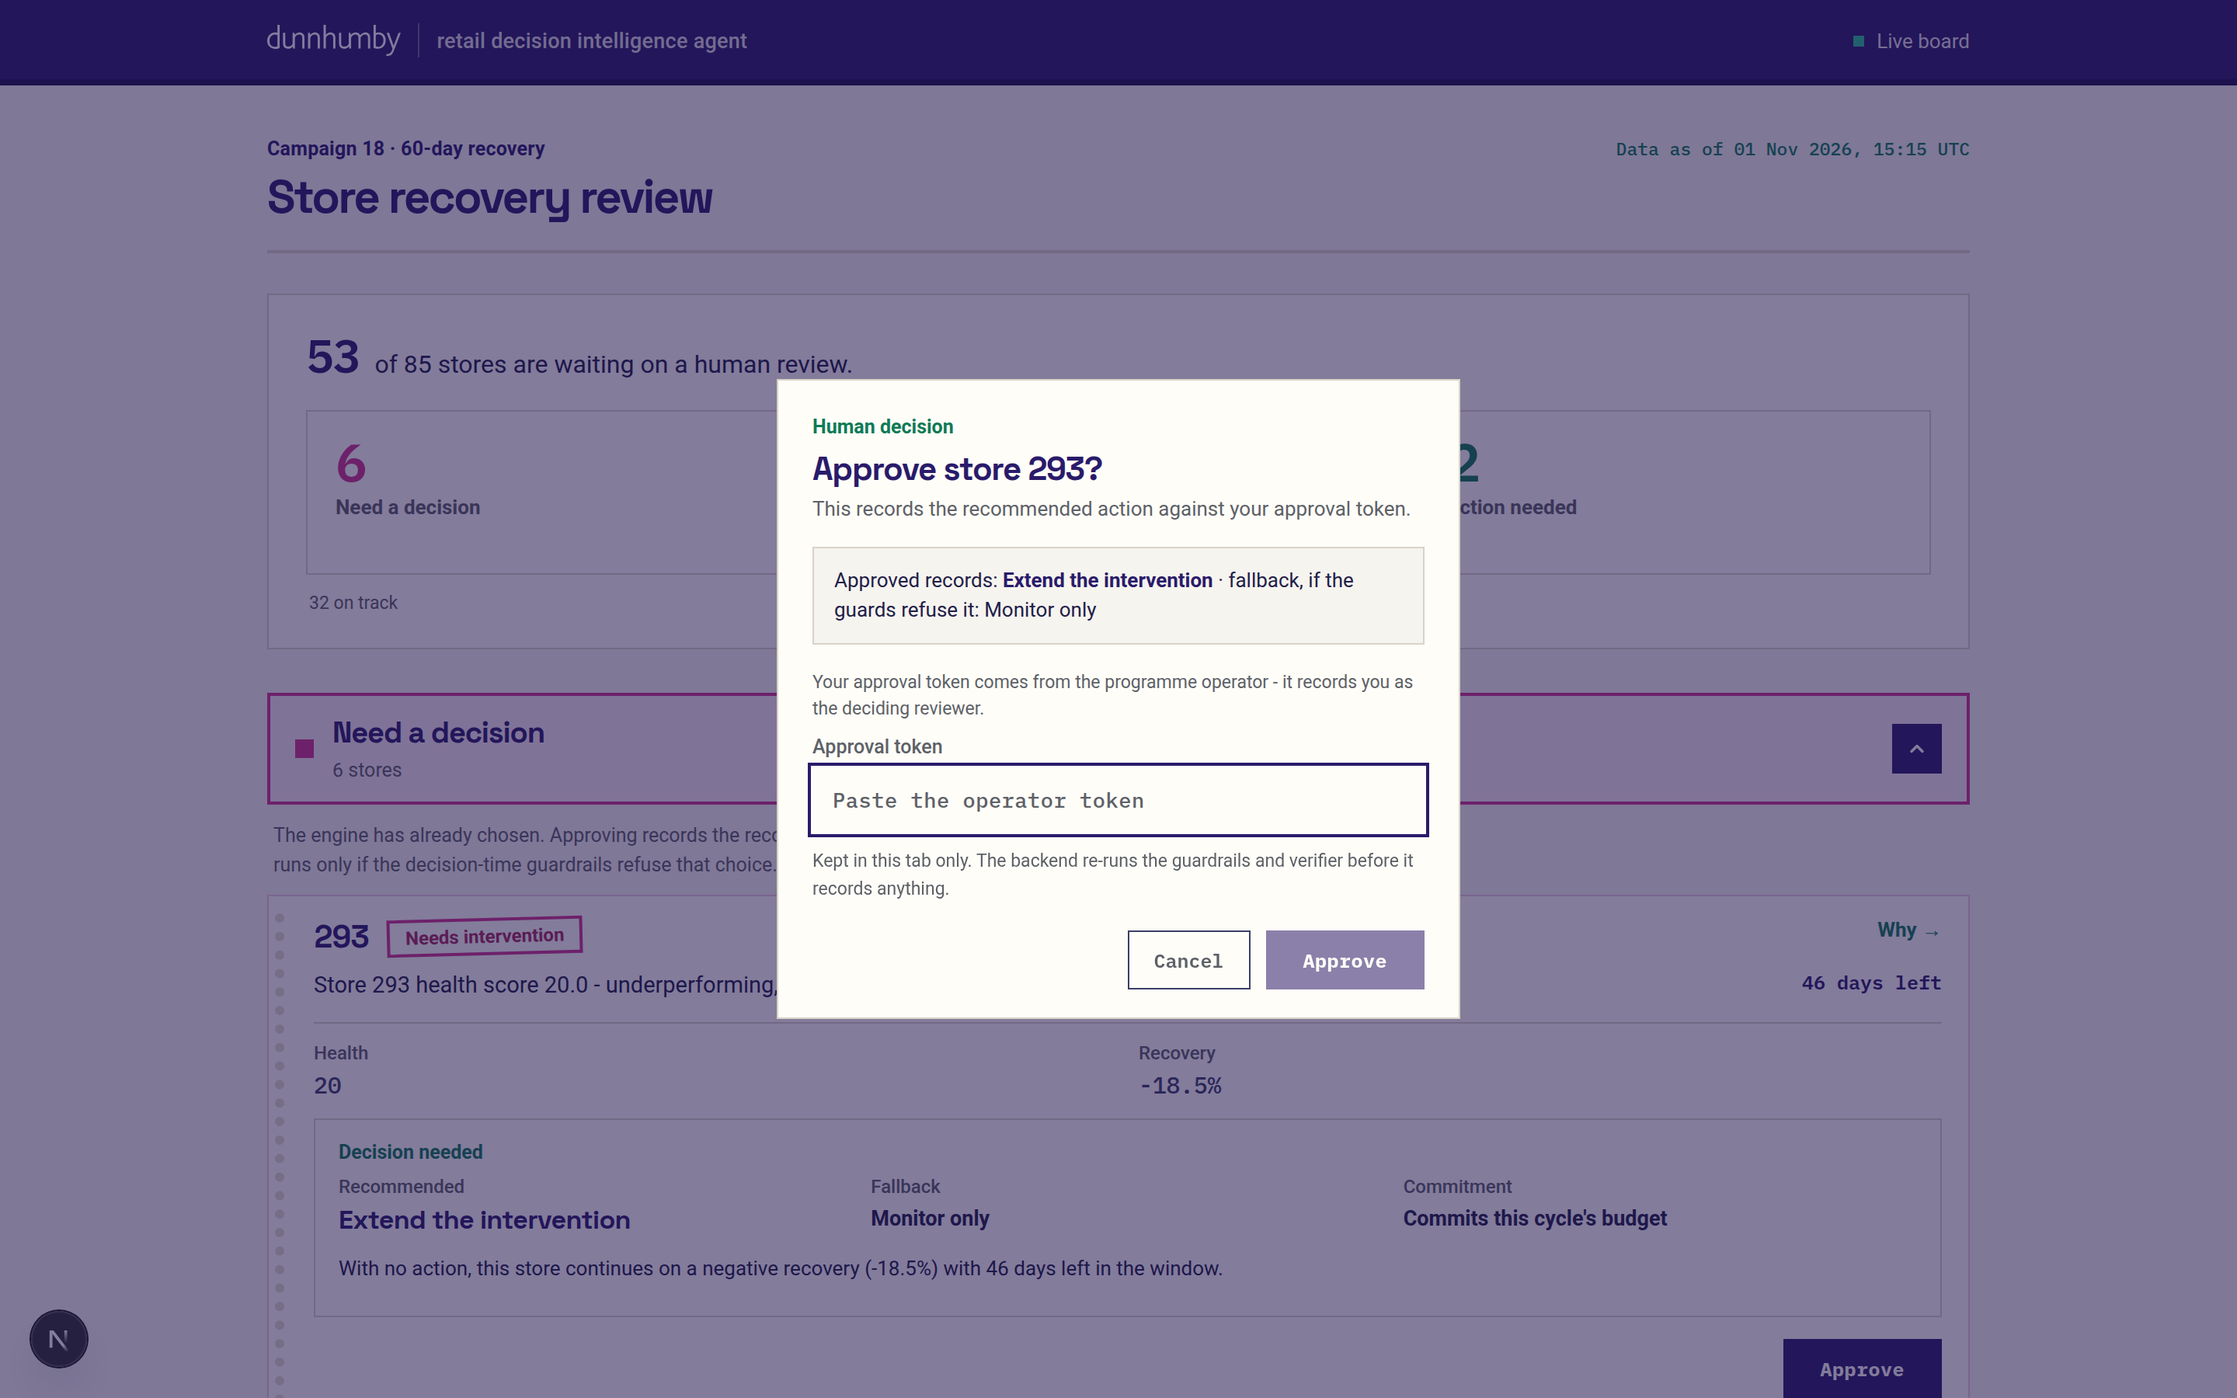
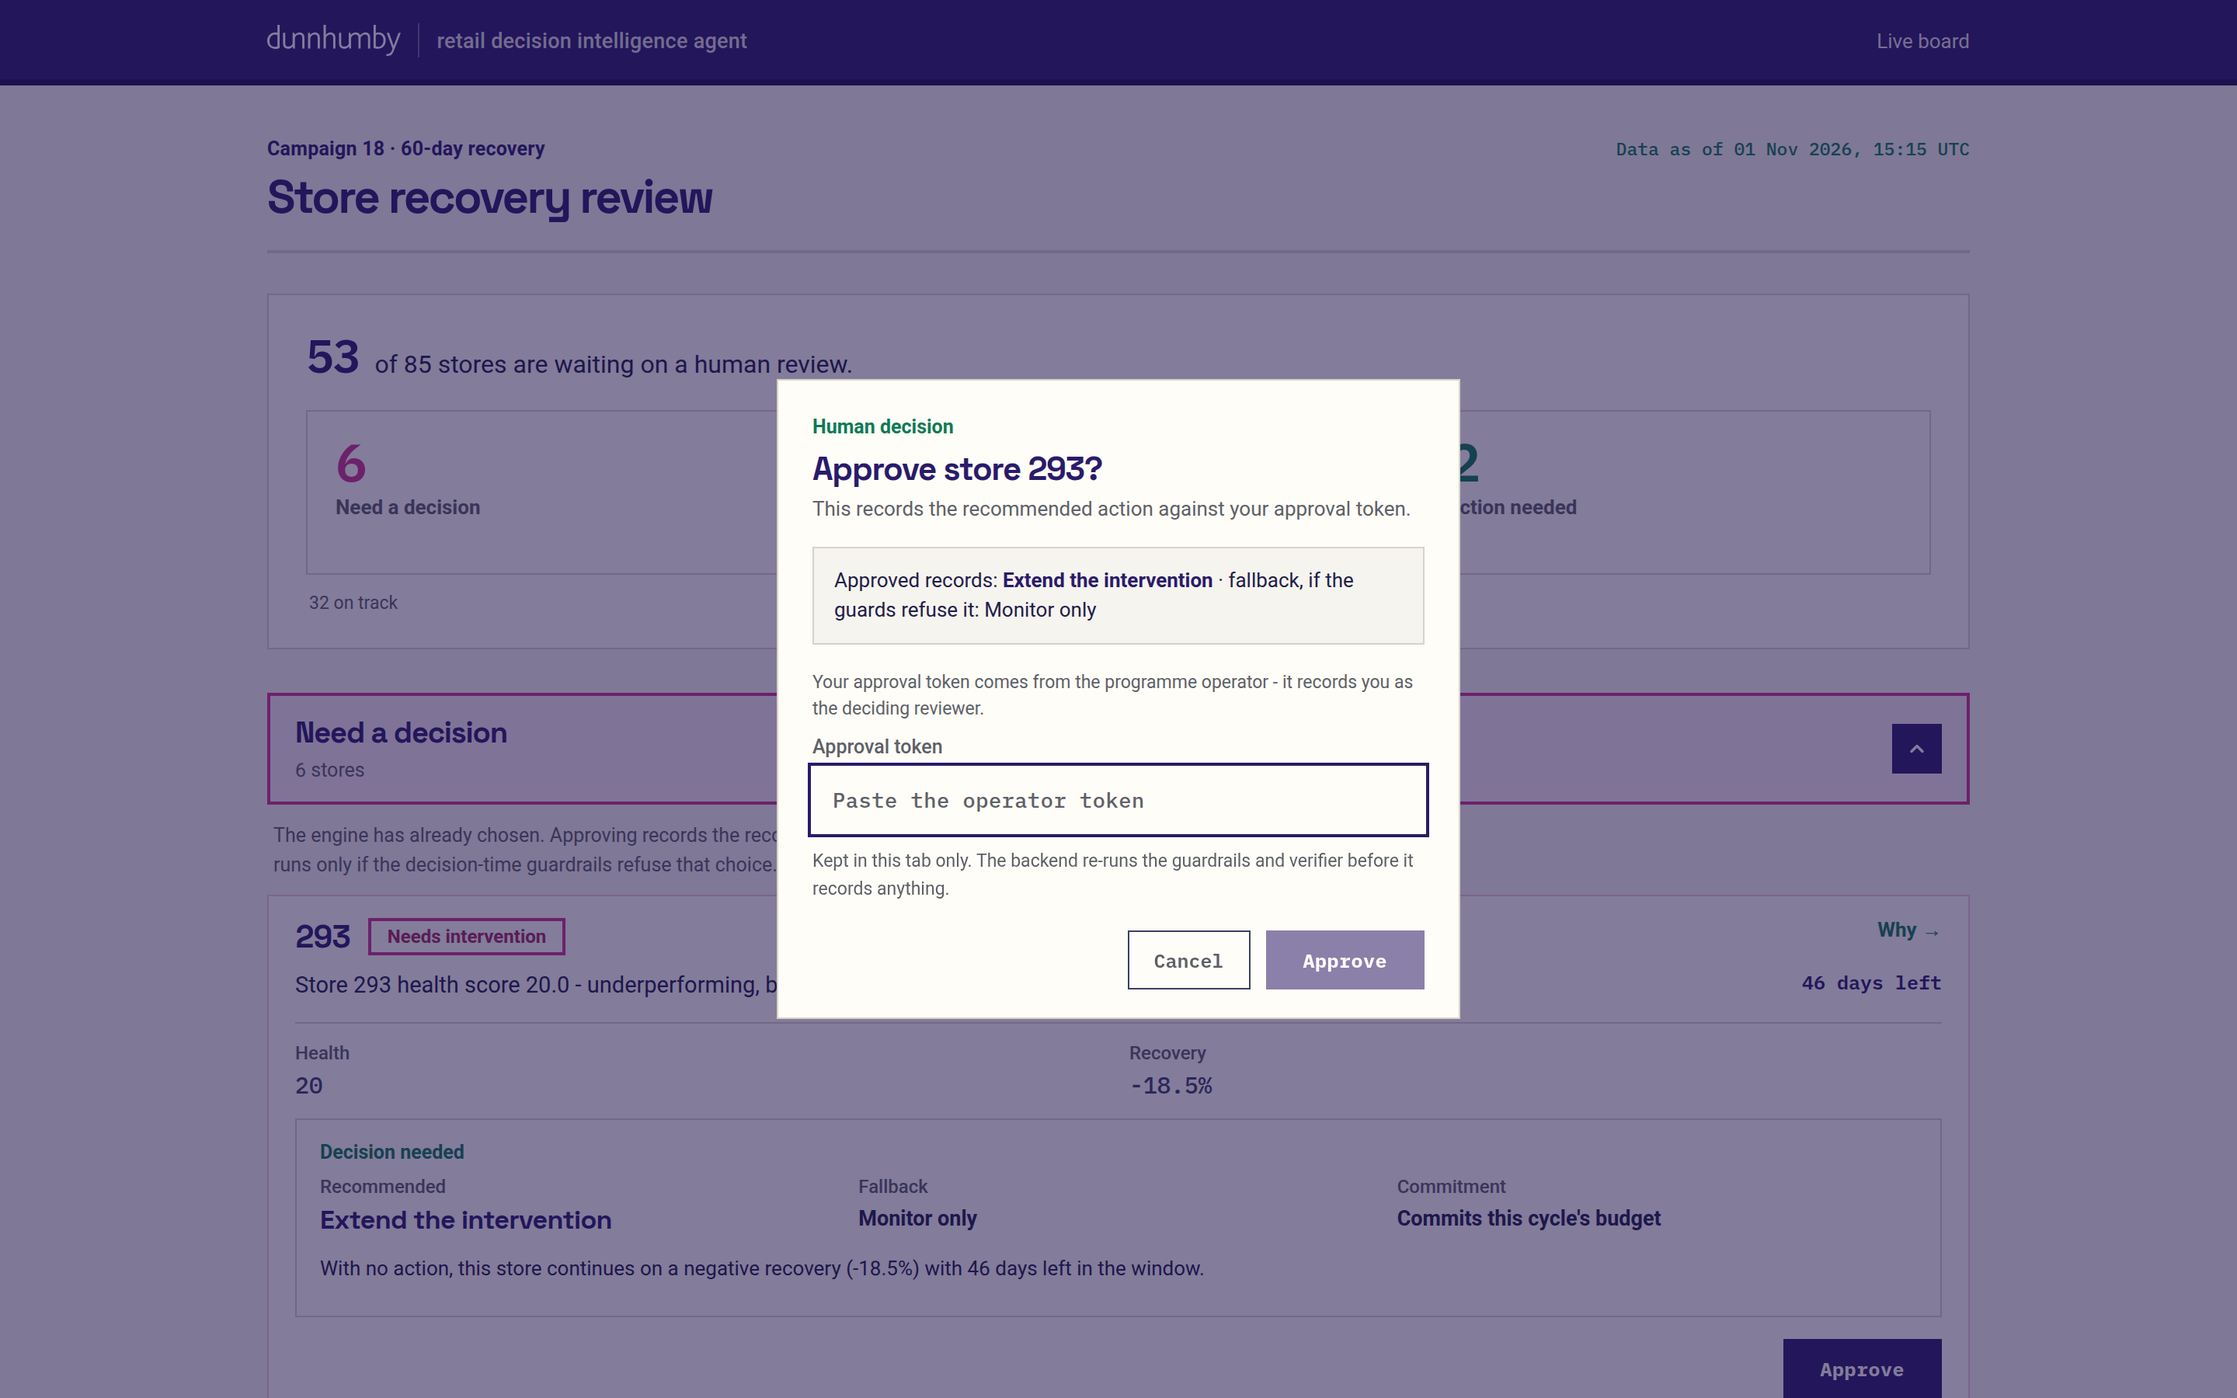
Official-voice pass: dunnhumby.com copy, all dots retired
User request: use dunnhumby official text from their website, remove the
dots, make the page read as official.

- Footer brand line is dunnhumby's own copy (fetched from dunnhumby.com
  2026-11-01): 'The science of serving every customer. Together. At scale.'
  + 'Unlock the value of data'; copyright line is now '© 2026 dunnhumby
  limited' per the user's branding direction
- Metadata officialized: title 'Retail Decision Intelligence · dunnhumby',
  OG siteName dunnhumby, description uses the official headline trio
- devIndicators: false - the Next.js dev 'N' badge no longer renders on the
  surface (docs: 01-app/03-api-reference/05-config/.../devIndicators.md)
- Dots retired everywhere (The Plain-Record Rule): perforated stub edges,
  nav/hero status squares, bucket marker squares; stamps stand square
  (no rotation) - status is plain text
- DESIGN.md: Plain-Record rule, exact copy noted, Shapes/Layout/Components
  reconciled; design.json stamp + stub snippets rebuilt dotless
- Detector 0 non-advisory; site tests 23 passed; tsc clean

diff --git a/app/globals.css b/app/globals.css
@@ -73,7 +73,9 @@ img.brand-logo { display: block; height: 20px; width: auto; flex: none; filter: 
 .brand-product { font: 500 13.5px var(--font-roboto), Arial, sans-serif; color: rgba(255, 253, 248, .85); letter-spacing: .01em; white-space: nowrap; overflow: hidden; text-overflow: ellipsis }
 .navlinks { display: flex; align-items: center; gap: 18px; color: rgba(255, 253, 248, .88); font-size: 13px; white-space: nowrap }
 .nav-status { display: flex; align-items: center; gap: 8px }
-.nav-status i, .live-dot i { width: 7px; height: 7px; background: var(--green); display: inline-block; flex: none }
+/* Status reads as plain text: no indicator dots anywhere on an official surface. */
+.nav-status i, .live-dot i { display: none }
+.bucket-marker { display: none }
 
 /* --- register head: gate sentence + ruled count cells ---------------------- */
 .board-head { display: flex; flex-wrap: wrap; align-items: baseline; justify-content: space-between; gap: 4px 20px; padding: 30px 0 18px; border-bottom: 2px solid var(--rule) }
@@ -130,8 +132,7 @@ img.brand-logo { display: block; height: 20px; width: auto; flex: none; filter: 
 /* --- store stubs ------------------------------------------------------------ */
 /* Each store is one stub: perforated edge, hairline-ruled fields, reason as
    the printing, verdict as a stamp. Stamps never vanish; they hold. */
-.store-row { position: relative; margin-top: 10px; padding: 15px 18px 16px 30px; border: 1px solid var(--rule); background: var(--paper) }
-.store-row::before { content: ''; position: absolute; left: 5px; top: 12px; bottom: 12px; width: 0; border-left: 6px dotted var(--punch) }
+.store-row { position: relative; margin-top: 10px; padding: 15px 18px 16px; border: 1px solid var(--rule); background: var(--paper) }
 .section.attention .store-row { border-color: var(--rose-line); border-width: 0; border-left-width: 0; background: var(--paper); outline: 1px solid var(--rose-line); outline-offset: -1px }
 .store-top { display: flex; align-items: flex-start; justify-content: space-between; gap: 12px; margin-bottom: 9px }
 .store-leading { display: flex; align-items: center; gap: 12px; min-width: 0; flex-wrap: wrap }
@@ -146,7 +147,7 @@ img.brand-logo { display: block; height: 20px; width: auto; flex: none; filter: 
    held-back outline (raised line). */
 .state { padding: 3px 10px; border: 1px solid var(--carbon); color: var(--carbon); font: 600 12px var(--font-roboto), Arial, sans-serif; white-space: nowrap; background: var(--paper) }
 .state.state-ok { border: 2px solid var(--green-ink); color: var(--green-ink); padding: 3px 10px }
-.section.attention .store-row .state { border: 2px solid var(--flash); color: var(--stamp-ink); font-weight: 700; padding: 3px 10px; transform: rotate(-1.5deg) }
+.section.attention .store-row .state { border: 2px solid var(--flash); color: var(--stamp-ink); font-weight: 700; padding: 3px 10px }
 
 .row-title { display: flex; align-items: flex-start; justify-content: space-between; gap: 12px; margin-bottom: 11px }
 .row-meta { display: inline-flex; align-items: center; gap: 10px; flex: none }
@@ -360,9 +361,6 @@ body:has(dialog.approve-dialog[open]) { overflow: hidden }
   .chips .badge { width: 100% }
   .approve-dialog { position: fixed; inset: auto 0 0 0; width: 100%; max-width: 100%; margin: 0; border-left: 0; border-right: 0 }
   .dialog-body { padding: 20px 18px 18px }
-  /* The stamp stands square when the shelf gets narrow: a rotated ring bites
-     the stub edge at register scale. */
-  .section.attention .store-row .state { transform: none }
 }
 
 @media (max-width: 380px) {

diff --git a/app/layout.tsx b/app/layout.tsx
@@ -35,18 +35,18 @@ const ibmPlexMono = IBM_Plex_Mono({
 const SITE_URL = process.env.NEXT_PUBLIC_SITE_URL || 'https://retail-decision-intelligence-agent.vercel.app'
 
 const SITE_DESCRIPTION =
-  'Store review. Which stores need a decision, which have no signal to judge, and which need no action.'
+  'Unlock the value of data. Smarter decisions, stronger collaboration, sustainable growth - store recovery on live dunnhumby customer science.'
 
 export const metadata: Metadata = {
   metadataBase: new URL(SITE_URL),
   title: {
-    default: 'Retail Decision Intelligence Agent',
-    template: '%s · Retail Decision Intelligence Agent',
+    default: 'Retail Decision Intelligence · dunnhumby',
+    template: '%s · dunnhumby',
   },
   description: SITE_DESCRIPTION,
   openGraph: {
     type: 'website',
-    siteName: 'Retail Decision Intelligence Agent',
+    siteName: 'dunnhumby',
     description: SITE_DESCRIPTION,
   },
   twitter: {

diff --git a/app/_components/chrome.tsx b/app/_components/chrome.tsx
@@ -60,7 +60,13 @@ function Footer({ extra, probe }: { extra?: string; probe?: boolean }) {
 
   return (
     <footer className="footer">
-      <span>© 2026 Ashish Kumar · data: dunnhumby</span>
+      {/* Brand voice is dunnhumby's own copy (dunnhumby.com, fetched 2026-11-01):
+          the house strapline and the "Unlock the value of data" positioning line. */}
+      <span className="footer-brandline">
+        The science of serving every customer. Together. At scale.
+        <br />
+        Unlock the value of data · © 2026 dunnhumby limited
+      </span>
       <span>{right}</span>
     </footer>
   )

diff --git a/DESIGN.md b/DESIGN.md
@@ -86,14 +86,14 @@ components:
 
 **Creative North Star: "The Stub Register"**
 
-The product is a carbon-copy register of the engine's recommendations, not a dashboard. Every store is a stub with a perforated edge; the engine's reason prints as the stub's ruled fields; every verdict prints as a stamp. The magenta ACT NOW stamp - the register's one urgent polarity - marks every store that needs a human decision; approved records take the green stamp, and nothing is ever erased, it cancels. The clerk reads top to bottom like a form: masthead band, gate sentence, ruled count cells, stamped forms, the docket.
+The product is a carbon-copy register of the engine's recommendations, not a dashboard. Every store is a stub on the register; the engine's reason prints as the stub's ruled fields; every verdict prints as a stamp. The magenta ACT NOW stamp - the register's one urgent polarity - marks every store that needs a human decision; approved records take the green stamp, and nothing is ever erased, it cancels. The clerk reads top to bottom like a form: masthead band, gate sentence, ruled count cells, stamped forms, the docket. The brand voice is dunnhumby's own copy (the house strapline sits in the footer); no indicator dots, badges, or perforations decorate the record - status reads as plain text, in the official register voice.
 
 The palette is the pinned dunnhumby trio (`#2abf95`, `#2a1b6a`, `#cf348d`) doing named jobs on paper: indigo owns the full-bleed masthead band and register ink, green owns only the live system, magenta exists solely to stamp act-now. Depth is stock sitting on stock - no shadows anywhere on the shelf - and nothing eases: state changes step. This is the second world the user commissioned in one day; it replaced the quieter shelf-label world the user found "a little bit same."
 
 **Key Characteristics:**
-- One signature moment per stub: the double-ring magenta ACT NOW stamp, pressed askew (-2deg), on every needs-intervention record.
+- One signature moment per stub: the magenta ACT NOW stamp (a clean 2px magenta ring, straight) on every needs-intervention record.
 - Full-bleed `#2a1b6a` masthead band with the white wordmark (single-color inversion) and the green LED rail above it.
-- Perforation punches (`6px dotted`) open every store stub; hairlines (`#d9d3c6`) rule every field.
+- Hairlines (`#d9d3c6`) rule every field; no dots, no badges, no perforations anywhere.
 - Carbon figures print in IBM Plex Mono; Space Grotesk prints nameplates; Roboto carries fine print.
 - Sharp corners (0-2px), flat stock-on-stock depth, stepped motion that never eases.
 
@@ -127,7 +127,9 @@ Warm coupon stock replaces the cool editorial ground; every color still works as
 
 **The Carbon Rule.** All live figures - counts, percentages, windows, store IDs in boxes - print in IBM Plex Mono carbon ink (`#3b3f66`), always tabular. Space Grotesk is reserved for nameplates; Roboto carries prose.
 
-**The Stock-on-Stock Rule.** No shadows anywhere on the shelf. Depth is paper ("#fffdf8") on stock ("#f6f4ef") separated by hairlines, with perforations and ruled fields - the docket floats on dimmed ink, the only exception.
+**The Stock-on-Stock Rule.** No shadows anywhere on the shelf. Depth is paper ("#fffdf8") on stock ("#f6f4ef") separated by hairlines and ruled fields - the docket floats on dimmed ink, the only exception.
+
+**The Plain-Record Rule.** No indicator dots, status squares, badges, or perforations - the register speaks in text alone. Color arrives only through words, cells, frames, and the LED rail.
 
 **The Only-Frame Rule.** Stubs always wear 1px hairlines. Exactly one element per surface may carry a 2px colored frame: the ACTION REQUIRED form head (its stamp frame). No colored border ever rides a single side of a card.
 
@@ -155,18 +157,18 @@ Warm coupon stock replaces the cool editorial ground; every color still works as
 
 ## Layout
 
-One centered column (1160px, 32px gutters) printed on the stock ground. Order: full-bleed masthead band → header strip (identity line left, freshness right, 2px rule) → gate record with the three ruled count cells → three register forms (16-18px apart) → perforated stubs (10px apart) → footer. Detail page prints two sheets at 1.25fr/1fr (why / evidence) over the advisory memo. Breakpoints: 900px stacks the sheets; 640px is the clerk's pocket pass (square stamps, full-width tabs, the docket docks bottom); 380px drops decision prints to one column.
+One centered column (1160px, 32px gutters) printed on the stock ground. Order: full-bleed masthead band → header strip (identity line left, freshness right, 2px rule) → gate record with the three ruled count cells → three register forms (16-18px apart) → stubs (10px apart) → footer. Detail page prints two sheets at 1.25fr/1fr (why / evidence) over the advisory memo. Breakpoints: 900px stacks the sheets; 640px is the clerk's pocket pass (full-width tabs, the docket docks bottom); 380px drops decision prints to one column.
 
 ## Elevation & Depth
 
-None. The register is flat paper: no resting shadows, no hover shadows, no blurred glows. Depth comes from layering brighter paper on the stock ground, hairline rules, and perforation punches. The approval docket is the sole floating object - it dims the register behind ink-dark glass (`rgba(30,19,79,.55)`) without casting a shadow of its own.
+None. The register is flat paper: no resting shadows, no hover shadows, no blurred glows. Depth comes from layering brighter paper on the stock ground and hairline rules. The approval docket is the sole floating object - it dims the register behind ink-dark glass (`rgba(30,19,79,.55)`) without casting a shadow of its own.
 
 ### Named Rules
 **The No-Shadow Ledger Rule.** If a state needs emphasis, it gets a stamp or a frame - never a shadow, never a lift.
 
 ## Shapes
 
-Sharp is the register's form language: 0px on plates, tabs and count cells; 2px maximum on small chips and stamp inner rings. Borders are 1px hairlines everywhere except the two stamped exceptions (the ACT form head's 2px frame and the stamps' 2px rings with inset paper gaps that read as rubber-stamp double-rings). Perforation (`6px dotted #e3ddcd`) is the one recurring silhouette - every stub is torn from the book.
+Sharp is the register's form language: 0px on plates, tabs and count cells; 2px maximum on small chips and stamp rings. Borders are 1px hairlines everywhere except the two stamped exceptions (the ACT form head's 2px frame and the stamps' 2px rings). No dots of any kind: the perforated-stub silhouette was retired in the official-voice pass.
 
 ## Components
 
@@ -174,7 +176,7 @@ Sharp is the register's form language: 0px on plates, tabs and count cells; 2px 
 - **Shape:** square corners, 38px min-height, 2px border.
 - **Primary:** Register Indigo fill, paper-white mono 700 uppercase +0.16em label ("APPROVE"); presses to `#1e134f`.
 - **Ghost:** paper fill, 1px carbon outline, Print Grey mono label ("CANCEL"); hover turns indigo.
-- **Dashed actions** ("SHOW ALL 6 STORES", "BULK REVIEW"): 1px dashed carbon frame - a perforation command, not a primary.
+- **Dashed actions** ("Show all 6 stores", "Bulk review"): 1px dashed carbon frame - a command tag, not a primary.
 - **Focus:** 2-3px solid outline in carbon/indigo ink, instant (steps).
 
 ### Stamps (state tags - the signature component)
@@ -182,10 +184,10 @@ Sharp is the register's form language: 0px on plates, tabs and count cells; 2px 
 - **Settled stamp:** same ring in Green Ink, held straight.
 - **Quiet tag:** 1px carbon outline, paper fill, carbon 600 12px sentence case - neutral states whisper.
 - **Held-back outline:** dashed carbon outline for pending/disabled record states (raised from the darkroom challenger).
-- Stamps stand back up at ≤640px.
+- Stamps never rotate and stand square at every breakpoint.
 
 ### Cards / Containers
-- **Paper plates** (`#fffdf8`) on stock, 1px hairline borders, square corners; store stubs add the perforated left edge and a 28px-perforation padding; the review sheet is a tinted folder (`#edece4`).
+- **Paper plates** (`#fffdf8`) on stock, 1px hairline borders, square corners; the review sheet is a tinted folder (`#edece4`).
 
 ### Fields
 - **Inputs:** paper fill, 1px carbon frame, mono text, no radius; indigo 2px focus outline; mono placeholder in Print Grey. Caret green.
@@ -212,4 +214,5 @@ Sharp is the register's form language: 0px on plates, tabs and count cells; 2px 
 - **Don't** ease anything: motion steps (`steps()`); no fades longer than the LED step.
 - **Don't** put colored borders >1px on stubs or panels; the ACTION REQUIRED frame and stamp rings are the only 2px color in the system.
 - **Don't** erase history: approvals add a green stamp; error slips print and stay.
-- **Don't** invent serial numbers or fictional form copy - the register voice prints product truth only; any uppercase strip must carry campaign/freshness/field content to exist.
+- **Don't** decorate with dots: no indicator squares, no perforations, no badges - status is plain text.
+- **Don't** invent copy: brand voice uses dunnhumby's own sentences; everything else prints product truth.
